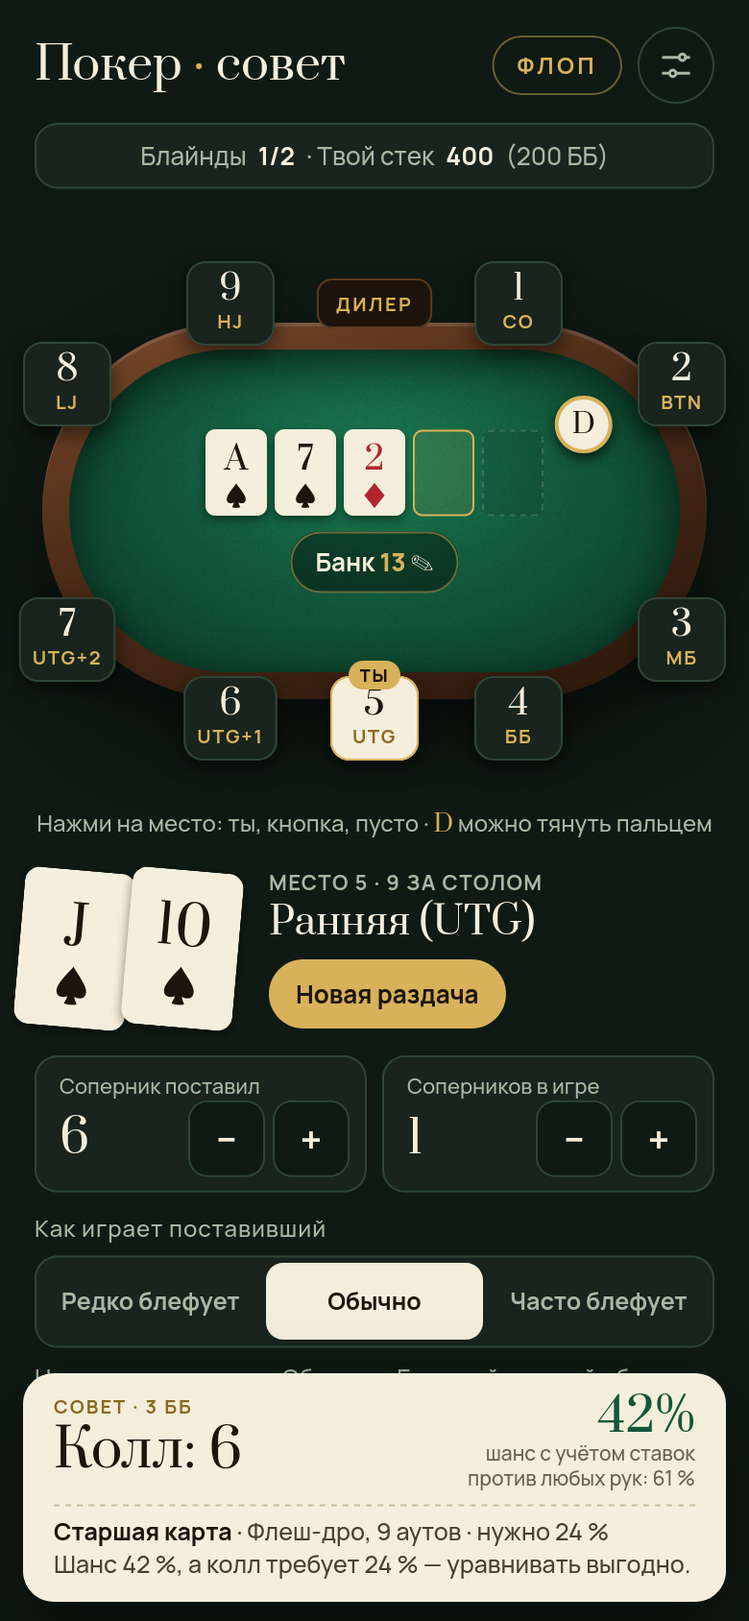
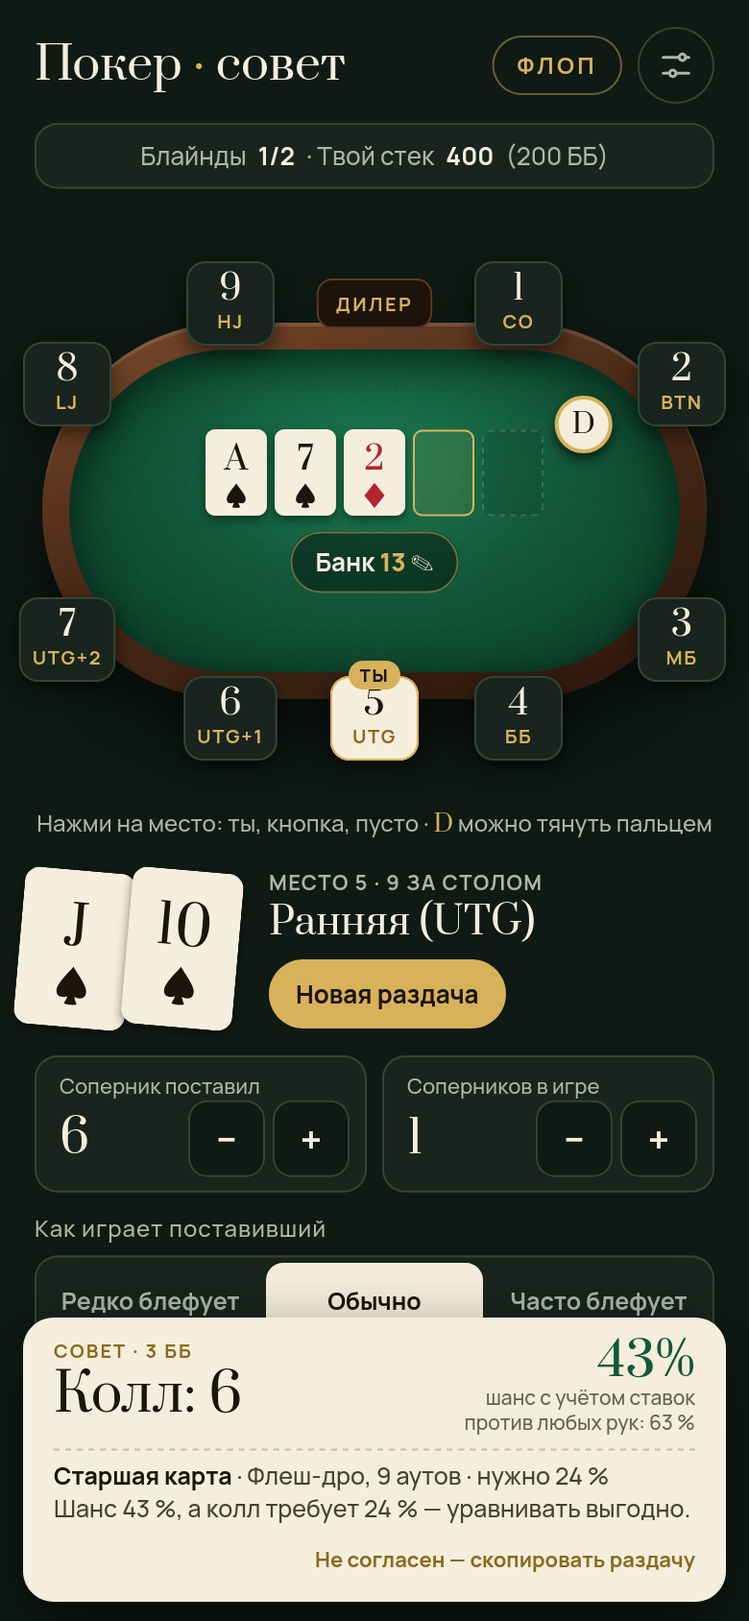
Префлоп по таблицам солвера, защита ББ по цене, «спорно», кнопка «Не согласен» и повтор раздачи; 92 раздачи в проверке

Changed region(s): [[0.0308, 0.8009, 0.9846, 0.9858]]

diff --git a/src/preflop.js b/src/preflop.js
@@ -5,17 +5,21 @@ import { rankOf } from './cards.js';
 import { topClasses, combosIn, PREFLOP_SHARE } from './ranges.js';
 import { calcEquity } from './equity.js';
 
-// Открытие (первым входишь в банк): чем больше игроков после тебя, тем уже диапазон.
+// Открытие (первым входишь в банк) — по опубликованным таблицам солвера для 100 ББ
+// (Preflop Wizard 9-max/6-max, GTO Gecko). Ключ — сколько игроков ходят после тебя:
+// 8 — UTG за полным столом, 5 — UTG за столом на 6, 4 — хайджек, 3 — катофф, 2 — баттон, 1 — МБ.
 const OPEN = {
-  7: '77+, A9s+, KTs+, QTs+, JTs, AJo+, KQo',
-  6: '66+, A8s+, KTs+, QTs+, JTs, T9s, AJo+, KQo',
-  5: '55+, A2s+, KTs+, QTs+, JTs, T9s, 98s, ATo+, KQo',
-  4: '44+, A2s+, K9s+, Q9s+, J9s+, T9s, 98s, 87s, ATo+, KJo+, QJo',
-  3: '22+, A2s+, K7s+, Q8s+, J8s+, T8s+, 97s+, 87s, 76s, 65s, A9o+, KTo+, QTo+, JTo',
-  2: '22+, A2s+, K2s+, Q5s+, J7s+, T7s+, 96s+, 86s+, 75s+, 64s+, 54s, A2o+, K9o+, Q9o+, J9o+, T9o, 98o',
-  1: '22+, A2s+, K5s+, Q7s+, J7s+, T7s+, 97s+, 86s+, 76s, 65s, 54s, A5o+, K9o+, QTo+, JTo',
+  8: '77+, ATs+, KJs+, QJs, JTs, AJo+', // ~9 %
+  7: '66+, A9s+, KTs+, QTs+, JTs, T9s, 98s, AJo+, KQo', // ~12 %
+  6: '55+, A8s+, A5s, KTs+, QTs+, J9s+, T9s, 98s, 87s, ATo+, KQo', // ~15 %
+  5: '22+, A2s+, K9s+, QTs+, JTs, T9s, 98s, 87s, AJo+, KQo', // ~17 %
+  4: '22+, A2s+, K8s+, Q9s+, J9s+, T8s+, 97s+, 87s, 76s, 65s, ATo+, KJo+, QJo', // ~21 %
+  3: '22+, A2s+, K5s+, Q8s+, J8s+, T8s+, 97s+, 86s+, 75s+, 64s+, 54s, A8o+, KTo+, QTo+, JTo', // ~27 %
+  2: '22+, A2s+, K2s+, Q2s+, J4s+, T6s+, 96s+, 85s+, 74s+, 64s+, 53s+, 43s, A2o+, K8o+, Q9o+, J9o+, T9o, 98o', // ~45 %
+  1: '22+, A2s+, K2s+, Q5s+, J7s+, T7s+, 96s+, 86s+, 75s+, 64s+, 54s, A2o+, K9o+, Q9o+, J9o+, T9o', // ~40 %
 };
-const openRange = (behind) => OPEN[Math.min(7, Math.max(1, behind))];
+const openRange = (behind) => OPEN[Math.min(8, Math.max(1, behind))];
+export const OPEN_RANGES = OPEN;
 
 // Против лимперов (кто-то уравнял блайнд без повышения).
 const LIMP_CALL = '22+, A2s+, KTs+, QTs+, JTs, T9s, 98s, 87s, 76s, 65s';
@@ -24,7 +28,6 @@ const LIMP_CALL = '22+, A2s+, KTs+, QTs+, JTs, T9s, 98s, 87s, 76s, 65s';
 const THREEBET = 'QQ+, AKs, AKo';
 const THREEBET_LATE = 'JJ+, AQs+, AKo, A5s';
 const CALL_SMALL = '22-JJ, ATs-AQs, KJs+, QJs, JTs, T9s, 98s, AQo, KQo';
-const CALL_BB_EXTRA = 'A2s+, K9s+, Q9s+, J9s+, T8s+, 97s+, 87s, 76s, 65s, ATo+, KJo+, QJo';
 const CALL_BIG = '77-JJ, AQs, KQs, AQo';
 
 // Спекулятивные руки: дешёвый колл ради большого банка, когда попадёшь (нужны глубокие стеки).
@@ -102,7 +105,11 @@ export function preflopAdvice({ hero, position, action = 'none', limpers = 0, ra
     if (inRange(cls, openRange(position.behind))) {
       return result('raise', 3 * bb, `${cls} достаточно сильна, чтобы входить первым с этой позиции.`);
     }
-    return result('fold', 0, `${cls} слишком слабая для этой позиции: после тебя ещё ${position.behind} игроков.`);
+    // На грани: с соседнего (более позднего) места эту руку уже открывают.
+    const edge = inRange(cls, openRange(position.behind - 1));
+    return { ...result('fold', 0, edge
+      ? `${cls} — на самой границе: с этого места по таблицам пас, а на одно место позже уже открывают.`
+      : `${cls} слишком слабая для этой позиции: после тебя ещё ${position.behind} игроков.`), close: edge };
   }
 
   // Сколько реально доплатить (блайнд уже на столе) и во сколько раз стек больше этой цены.
@@ -113,8 +120,8 @@ export function preflopAdvice({ hero, position, action = 'none', limpers = 0, ra
 
   if (action === 'limp') {
     const raiseSize = (3 + limpers) * bb;
-    // Повышаем, если рука входит в диапазон с запасом (на позицию строже).
-    if (inRange(cls, openRange(position.behind + limpers + 1))) {
+    // Повышаем, если рука входит в диапазон с запасом: каждый лимпер — как два лишних игрока после тебя.
+    if (inRange(cls, openRange(position.behind + 2 * limpers + 1))) {
       return result('raise', raiseSize, `${cls} — сильная рука, повышай и забирай инициативу у лимперов.`);
     }
     if (isBB) return result('check', 0, 'Можно посмотреть флоп бесплатно.');
@@ -162,15 +169,20 @@ export function preflopAdvice({ hero, position, action = 'none', limpers = 0, ra
     if (inRange(cls, SPECULATIVE) && raiseBB <= 4 && (late || isBB) && implied(cost) >= SPECULATIVE_IMPLIED) {
       return result('call', raiseTo, `${cls} — рука «на попадание»: колл дешёвый, стеки глубокие, а флеш или стрит выиграют большой банк.`);
     }
-    // ББ против минимального повышения: цена очень хорошая, защищаем примерно половину рук.
-    if (isBB && raiseBB <= 2.5 && topClasses(0.5).has(cls)) {
-      return result('call', raiseTo, `Повысили минимально: доплатить ${chips(cost)}, а банк уже больше — с ${cls} защищай большой блайнд.`);
+    // Защита ББ по таблицам: чем дешевле повышение, тем больше рук защищаем
+    // (против 2–2,5 ББ около половины, против 3 ББ ~38 %, против 4 ББ ~28 %).
+    const defend = raiseBB <= 2.5 ? 0.5 : raiseBB <= 3.5 ? 0.38 : raiseBB <= 4.5 ? 0.28 : 0.18;
+    if (isBB && topClasses(defend).has(cls)) {
+      return { ...result('call', raiseTo, `Доплатить ${chips(cost)}, часть ставки уже в банке — с ${cls} большой блайнд защищают.`),
+        close: !topClasses(defend - 0.06).has(cls) };
     }
+    const bbEdge = isBB && topClasses(defend + 0.06).has(cls);
     const callRange = raiseBB > 4.5 ? CALL_BIG : CALL_SMALL;
-    if ((inRange(cls, callRange) && !isPair) || (isBB && raiseBB <= 3.5 && inRange(cls, CALL_BB_EXTRA))) {
-      return result('call', raiseTo, isBB
-        ? `${cls}: часть ставки уже в банке, цена колла хорошая.`
-        : `${cls} неплохо играет против повышения, но для 3-бета слабовата.`);
+    if (inRange(cls, callRange) && !isPair) {
+      return result('call', raiseTo, `${cls} неплохо играет против повышения, но для 3-бета слабовата.`);
+    }
+    if (bbEdge) {
+      return { ...result('fold', 0, `${cls} на границе защиты большого блайнда: по таблицам чаще пас, но колл — небольшая ошибка.`), close: true };
     }
     return result('fold', 0, `Против повышения ${cls} слишком слабая.`);
   }

diff --git a/app.js b/app.js
@@ -322,6 +322,43 @@ $('stakes').onclick = openSettings;
 
 // ---------- Совет ----------
 let adviceTimer = 0;
+let lastAdvice = null;
+
+const cardText = (c) => `${rankLabel(rankOf(c))}${SUIT_GLYPH[suitOf(c)]}`;
+
+// «Не согласен»: раздача текстом — владелец вставляет её мне в чат, я разбираю пачкой.
+// Последняя строка #data — для повтора раздачи скриптом scripts/replay.mjs.
+async function copyHand() {
+  const pos = seatPosition(state.occupied, state.button, state.hero);
+  const board = state.board.filter((c) => c !== null);
+  const pre = PREFLOP_CHOICES.find(([k]) => k === state.preflop)[1];
+  const a = lastAdvice;
+  const text = [
+    'Раздача для разбора (Покер · совет)',
+    `Стол: ${activeCount()} игроков, кнопка у места ${state.button}, я на месте ${state.hero} (${pos ? pos.name : '?'})`,
+    `Блайнды ${fmt(state.bb / 2)}/${fmt(state.bb)}, мой стек ${state.stack ? fmt(state.stack) : 'не указан'}`,
+    `Мои карты: ${state.hole.map(cardText).join(' ')}`,
+    board.length ? `На столе: ${board.map(cardText).join(' ')}` : 'На столе: ничего (префлоп)',
+    `До меня префлоп: ${pre}${state.preflop === 'limp' ? ` (${state.limpers})` : ''}${state.raiseTo && /raise|3bet/.test(state.preflop) ? ` до ${fmt(state.raiseTo)}` : ''}`,
+    board.length ? `Банк ${fmt(state.pot)}, соперник поставил ${fmt(state.toCall)}, соперников ${state.opponents}, блефует: ${{ rare: 'редко', normal: 'обычно', often: 'часто' }[state.style]}` : '',
+    a ? `Совет приложения: ${a.title} · шанс ${percentText(a.equity)} % — ${a.advice.reason}` : '',
+    'Я думаю: ',
+    `#data ${JSON.stringify({ occupied: state.occupied, hero: state.hero, button: state.button, bb: state.bb, stack: state.stack,
+      hole: state.hole, board: state.board, preflop: state.preflop, limpers: state.limpers, raiseTo: state.raiseTo,
+      pot: state.pot, toCall: state.toCall, opponents: state.opponents, style: state.style })}`,
+  ].filter(Boolean).join('\n');
+  try {
+    await navigator.clipboard.writeText(text);
+    $('disagree').textContent = 'Скопировано — вставь в чат с Claude и допиши, что думаешь';
+  } catch {
+    // Если телефон не дал скопировать — показываем текст, его можно выделить вручную.
+    openSheet(`<h2>Раздача<button data-act="close">Закрыть</button></h2>
+      <textarea class="copy-box" readonly>${text.replace(/</g, '&lt;')}</textarea>
+      <p class="note">Выдели весь текст и скопируй, потом вставь в чат с Claude.</p>`);
+    sheet.querySelector('[data-act="close"]').onclick = closeSheet;
+    sheet.querySelector('textarea').select();
+  }
+}
 function renderTicket() {
   const ticket = $('ticket');
   const heroPos = seatPosition(state.occupied, state.button, state.hero);
@@ -374,10 +411,13 @@ function renderTicket() {
     ticket.classList.remove('busy');
     ticket.innerHTML = `
       <div class="top-row">
-        <div class="act ${advice.action === 'fold' ? 'fold' : ''}"><small>Совет${blinds ? ` · ${blinds}` : ''}</small>${title}</div>
+        <div class="act ${advice.action === 'fold' ? 'fold' : ''}"><small>${advice.close ? 'Спорно — почти равно' : 'Совет'}${blinds ? ` · ${blinds}` : ''}</small>${title}</div>
         <div class="gauge"><b>${percentText(equity)}%</b><span>${gaugeNote === 'шанс выиграть' ? gaugeNote : gaugeNote.startsWith('против любых') ? `шанс с учётом ставок<br>${gaugeNote}` : `шанс ${gaugeNote}`}</span></div>
       </div>
-      <hr>${lines.map((l) => `<div class="line">${l}</div>`).join('')}`;
+      <hr>${lines.map((l) => `<div class="line">${l}</div>`).join('')}
+      <button class="disagree" id="disagree">Не согласен — скопировать раздачу</button>`;
+    lastAdvice = { advice, equity, title };
+    $('disagree').onclick = copyHand;
   }, 30);
 }
 

diff --git a/src/postflop.js b/src/postflop.js
@@ -136,6 +136,7 @@ export function postflopAdvice({
   const valueNeed = Math.max(0.35, 0.7 - 0.1 * opponents);
   const strongDraw = draws.outs >= 8 && !river;
 
+  let close = false; // спорно: решения почти равны
   const result = (act, amount, reason) => {
     // Больше, чем есть, не поставишь; если ставка — почти весь стек, честнее идти ва-банк.
     if ((act === 'bet' || act === 'raise') && amount >= stack * 0.5) { act = 'allin'; amount = stack; }
@@ -144,11 +145,12 @@ export function postflopAdvice({
       action: act,
       amount: amount ? chips(amount) : 0,
       text: ACTION_TEXT[act] + (amount ? `${act === 'raise' ? ' до' : ''} ${chips(amount)}` : ''),
-      reason, equity, randomEquity, handName, draws, spr,
+      reason, equity, randomEquity, handName, draws, spr, close,
     };
   };
 
   if (!bet) {
+    close = Math.abs(equity - valueNeed) < 0.04;
     if (equity >= valueNeed) {
       if (spr < 1.5 && topPairPlus) {
         return result('allin', stack, `Шанс ${percent} %, а в стеке меньше полутора банков (SPR ${sprText}) — ставь всё сразу.`);
@@ -192,6 +194,7 @@ export function postflopAdvice({
       iterations: Math.round(iterations / 2), random, compareStyles: false });
     return alt.action;
   };
+  close = Math.abs(realized - drawOdds) < 0.04;
   if (realized >= drawOdds) {
     const rare = flip('rare');
     const note = rare === 'fold' ? ' Но если он почти не блефует — пас.' : '';

diff --git a/app.css b/app.css
@@ -162,3 +162,7 @@ h1 em { font-style: normal; color: var(--gold); }
 @media (prefers-reduced-motion: reduce) {
   * { transition: none !important; }
 }
+
+.disagree { display: block; margin: 6px 0 0 auto; font: 700 11px Manrope; color: var(--gold-ink); padding: 4px 0; }
+.copy-box { width: 100%; height: 220px; border-radius: 12px; background: #0f1a14; color: var(--ivory);
+            border: 1px solid var(--panel-line); padding: 10px; font: 500 12px/1.4 Manrope; }

diff --git a/sw.js b/sw.js
@@ -1,6 +1,6 @@
 // Офлайн-режим: сначала пробуем интернет (всегда свежая версия),
 // без связи — берём сохранённую копию из телефона.
-const CACHE = 'poker-v2';
+const CACHE = 'poker-v3';
 const FILES = [
   './', 'index.html', 'app.css', 'app.js', 'manifest.webmanifest',
   'src/cards.js', 'src/evaluator.js', 'src/equity.js', 'src/hands.js', 'src/handRanks.js',

diff --git a/docs/proverka-sovetov.md b/docs/proverka-sovetov.md
@@ -6,85 +6,102 @@
 
 | # | Раздача | До тебя | Совет | Шанс | Ждём | |
 |---|---|---|---|---|---|---|
-| 1 | AA из ранней | все сбросили | **Рейз до 6** | 85 % против одного соперника | рейз | ✅ |
-| 2 | KJ разных мастей из ранней | все сбросили | **Пас** | 54 % против одного соперника | пас | ✅ |
-| 3 | 77 из ранней | все сбросили | **Рейз до 6** | 57 % против одного соперника | рейз | ✅ |
-| 4 | A5 одной масти с катоффа | все сбросили | **Рейз до 6** | 54 % против одного соперника | рейз | ✅ |
-| 5 | K8 одной масти с баттона | все сбросили | **Рейз до 6** | 51 % против одного соперника | рейз | ✅ |
-| 6 | 9-4 разных с баттона | все сбросили | **Пас** | 31 % против одного соперника | пас | ✅ |
-| 7 | 72 на ББ, все сбросили | все сбросили | **Чек** | 30 % против одного соперника | чек | ✅ |
-| 8 | AK разных против 2 лимперов | лимп | **Рейз до 10** | 47 % против 2 соперников | рейз | ✅ |
-| 9 | 55 на баттоне против лимпера | лимп | **Рейз до 10** | 34 % против 2 соперников | рейз или колл | ✅ |
-| 10 | QQ против рейза | рейз до 6 | **Рейз до 18** | 70 % против руки повысившего | рейз | ✅ |
-| 11 | AJ разных против рейза | рейз до 6 | **Пас** | 55 % против руки повысившего | пас или колл | ✅ |
-| 12 | K9 одной масти на ББ против рейза | рейз до 6 | **Колл до 6** | 41 % против руки повысившего | колл | ✅ |
-| 13 | 66 на катоффе против рейза | рейз до 6 | **Колл до 6** | 49 % против руки повысившего | колл | ✅ |
-| 14 | 72 разных против рейза | рейз до 6 | **Пас** | 28 % против руки повысившего | пас | ✅ |
-| 15 | JJ против 3-бета | 3-бет до 18 | **Колл до 18** | 56 % против руки повысившего | колл | ✅ |
-| 16 | AK одной масти против 3-бета | 3-бет до 18 | **Рейз до 41.4** | 54 % против руки повысившего | рейз или ва-банк | ✅ |
-| 17 | K9 разных, стек 10 ББ, баттон | все сбросили | **Ва-банк до 20** | 50 % против одного соперника | ва-банк | ✅ |
-| 18 | 55, стек 8 ББ, ранняя | все сбросили | **Ва-банк до 16** | 53 % против одного соперника | ва-банк | ✅ |
-| 19 | J3 разных, стек 8 ББ, ранняя | все сбросили | **Пас** | 35 % против одного соперника | пас | ✅ |
-| 20 | 22, стек 14 ББ, ранняя | все сбросили | **Пас** | 48 % против одного соперника | пас | ✅ |
-| 21 | A2 разных, стек 6 ББ, малый блайнд | все сбросили | **Ва-банк до 12** | 49 % против одного соперника | ва-банк | ✅ |
-| 22 | AQ одной масти, стек 12 ББ, против рейза | рейз до 6 | **Ва-банк до 24** | 60 % против руки повысившего | ва-банк | ✅ |
-| 23 | 55 против рейза на баттоне, 100 ББ (ловим сет) | рейз до 6 | **Колл до 6** | 46 % против руки повысившего | колл | ✅ |
-| 24 | 55 против рейза на баттоне, 40 ББ | рейз до 6 | **Пас** | 46 % против руки повысившего | пас | ✅ |
-| 25 | 55 на ББ против рейза, 100 ББ | рейз до 6 | **Колл до 6** | 47 % против руки повысившего | колл | ✅ |
-| 26 | 33 против рейза в 5 ББ, 100 ББ | рейз до 10 | **Колл до 10** | 44 % против руки повысившего | колл | ✅ |
-| 27 | 33 против рейза в 5 ББ, 60 ББ | рейз до 10 | **Пас** | 45 % против руки повысившего | пас | ✅ |
-| 28 | 76 одной масти на баттоне против рейза, 100 ББ | рейз до 6 | **Колл до 6** | 37 % против руки повысившего | колл | ✅ |
-| 29 | 76 одной масти на баттоне против рейза, 40 ББ | рейз до 6 | **Пас** | 37 % против руки повысившего | пас | ✅ |
-| 30 | 76 одной масти из ранней против рейза, 100 ББ | рейз до 6 | **Пас** | 37 % против руки повысившего | пас | ✅ |
-| 31 | A4 одной масти на ББ против рейза, 150 ББ | рейз до 6 | **Колл до 6** | 45 % против руки повысившего | колл | ✅ |
-| 32 | A2 одной масти из ранней против рейза в 2 ББ | рейз до 4 | **Колл до 4** | 43 % против руки повысившего | колл | ✅ |
-| 33 | A2 одной масти на МБ против рейза в 2 ББ | рейз до 4 | **Колл до 4** | 44 % против руки повысившего | колл | ✅ |
-| 34 | A2 одной масти на баттоне против рейза в 2 ББ, стек 40 ББ | рейз до 4 | **Колл до 4** | 43 % против руки повысившего | колл | ✅ |
-| 35 | A2 одной масти из ранней против рейза в 4 ББ | рейз до 8 | **Пас** | 43 % против руки повысившего | пас | ✅ |
-| 36 | A2 разных мастей против рейза в 2 ББ на баттоне | рейз до 4 | **Пас** | 40 % против руки повысившего | пас | ✅ |
-| 37 | K7 разных на ББ против минимального рейза | рейз до 4 | **Колл до 4** | 35 % против руки повысившего | колл | ✅ |
-| 38 | 9-2 разных на ББ против минимального рейза | рейз до 4 | **Пас** | 29 % против руки повысившего | пас | ✅ |
-| 39 | J8 разных на МБ, перед тобой 2 лимпа | лимп | **Колл до 2** | 26 % против 2 соперников | колл | ✅ |
-| 40 | 7-2 разных на МБ, перед тобой 2 лимпа | лимп | **Пас** | 19 % против 2 соперников | пас | ✅ |
-| 41 | 88 против 3-бета, 300 ББ (на сет) | 3-бет до 18 | **Колл до 18** | 42 % против руки повысившего | колл | ✅ |
-| 42 | 88 против 3-бета, 100 ББ | 3-бет до 18 | **Пас** | 41 % против руки повысившего | пас | ✅ |
-| 43 | Твой пример: стек 200 ББ, ББ, доплатить ещё блайнд, T7 одной масти | рейз до 4 | **Колл до 4** | 35 % против руки повысившего | колл | ✅ |
-| 44 | Твой пример: стек 200 ББ, ББ, доплатить ещё блайнд, 7-2 разных | рейз до 4 | **Пас** | 28 % против руки повысившего | пас | ✅ |
+| 1 | Таблица: 77 из UTG — открывать | все сбросили | **Рейз до 6** | 58 % против одного соперника | рейз | ✅ |
+| 2 | Таблица: 66 из UTG — пас | все сбросили | **Пас** | 55 % против одного соперника | пас | ✅ |
+| 3 | Таблица: KQ разных из UTG — пас | все сбросили | **Пас** | 56 % против одного соперника | пас | ✅ |
+| 4 | Таблица: KQ разных из UTG+1 — открывать | все сбросили | **Рейз до 6** | 56 % против одного соперника | рейз | ✅ |
+| 5 | Таблица: A9 одной масти из UTG — пас | все сбросили | **Пас** | 59 % против одного соперника | пас | ✅ |
+| 6 | Таблица: 87 одной масти из UTG+2 — открывать | все сбросили | **Рейз до 6** | 39 % против одного соперника | рейз | ✅ |
+| 7 | Таблица: 76 одной масти из хайджека — открывать | все сбросили | **Рейз до 6** | 39 % против одного соперника | рейз | ✅ |
+| 8 | Таблица: A8 разных с катоффа — открывать | все сбросили | **Рейз до 6** | 55 % против одного соперника | рейз | ✅ |
+| 9 | Таблица: A7 разных с катоффа — пас | все сбросили | **Пас** | 53 % против одного соперника | пас | ✅ |
+| 10 | Таблица: Q2 одной масти с баттона — открывать | все сбросили | **Рейз до 6** | 40 % против одного соперника | рейз | ✅ |
+| 11 | Таблица: K7 разных с баттона — пас | все сбросили | **Пас** | 46 % против одного соперника | пас | ✅ |
+| 12 | Таблица: 43 одной масти с баттона — открывать | все сбросили | **Рейз до 6** | 36 % против одного соперника | рейз | ✅ |
+| 13 | Таблица: 42 одной масти с баттона — пас | все сбросили | **Пас** | 35 % против одного соперника | пас | ✅ |
+| 14 | Таблица: K9 разных с МБ — открывать | все сбросили | **Рейз до 6** | 50 % против одного соперника | рейз | ✅ |
+| 15 | Таблица: K8 разных с МБ — пас | все сбросили | **Пас** | 47 % против одного соперника | пас | ✅ |
+| 16 | Защита ББ: Q6 разных против 2 ББ | рейз до 4 | **Колл до 4** | 31 % против руки повысившего | колл или пас | ✅ |
+| 17 | Защита ББ: J4 разных против 4 ББ — пас | рейз до 8 | **Пас** | 30 % против руки повысившего | пас | ✅ |
+| 18 | AA из ранней | все сбросили | **Рейз до 6** | 85 % против одного соперника | рейз | ✅ |
+| 19 | KJ разных мастей из ранней | все сбросили | **Пас** | 55 % против одного соперника | пас | ✅ |
+| 20 | 77 из ранней | все сбросили | **Рейз до 6** | 58 % против одного соперника | рейз | ✅ |
+| 21 | A5 одной масти с катоффа | все сбросили | **Рейз до 6** | 53 % против одного соперника | рейз | ✅ |
+| 22 | K8 одной масти с баттона | все сбросили | **Рейз до 6** | 50 % против одного соперника | рейз | ✅ |
+| 23 | 9-4 разных с баттона | все сбросили | **Пас** | 31 % против одного соперника | пас | ✅ |
+| 24 | 72 на ББ, все сбросили | все сбросили | **Чек** | 30 % против одного соперника | чек | ✅ |
+| 25 | AK разных против 2 лимперов | лимп | **Рейз до 10** | 46 % против 2 соперников | рейз | ✅ |
+| 26 | 55 на баттоне против лимпера | лимп | **Колл до 2** | 35 % против 2 соперников | рейз или колл | ✅ |
+| 27 | QQ против рейза | рейз до 6 | **Рейз до 18** | 70 % против руки повысившего | рейз | ✅ |
+| 28 | AJ разных против рейза | рейз до 6 | **Пас** | 54 % против руки повысившего | пас или колл | ✅ |
+| 29 | K9 одной масти на ББ против рейза | рейз до 6 | **Колл до 6** | 41 % против руки повысившего | колл | ✅ |
+| 30 | 66 на катоффе против рейза | рейз до 6 | **Колл до 6** | 48 % против руки повысившего | колл | ✅ |
+| 31 | 72 разных против рейза | рейз до 6 | **Пас** | 28 % против руки повысившего | пас | ✅ |
+| 32 | JJ против 3-бета | 3-бет до 18 | **Колл до 18** | 56 % против руки повысившего | колл | ✅ |
+| 33 | AK одной масти против 3-бета | 3-бет до 18 | **Рейз до 41.4** | 53 % против руки повысившего | рейз или ва-банк | ✅ |
+| 34 | K9 разных, стек 10 ББ, баттон | все сбросили | **Ва-банк до 20** | 50 % против одного соперника | ва-банк | ✅ |
+| 35 | 55, стек 8 ББ, ранняя | все сбросили | **Ва-банк до 16** | 53 % против одного соперника | ва-банк | ✅ |
+| 36 | J3 разных, стек 8 ББ, ранняя | все сбросили | **Пас** | 34 % против одного соперника | пас | ✅ |
+| 37 | 22, стек 14 ББ, ранняя | все сбросили | **Пас** | 48 % против одного соперника | пас | ✅ |
+| 38 | A2 разных, стек 6 ББ, малый блайнд | все сбросили | **Ва-банк до 12** | 49 % против одного соперника | ва-банк | ✅ |
+| 39 | AQ одной масти, стек 12 ББ, против рейза | рейз до 6 | **Ва-банк до 24** | 61 % против руки повысившего | ва-банк | ✅ |
+| 40 | 55 против рейза на баттоне, 100 ББ (ловим сет) | рейз до 6 | **Колл до 6** | 46 % против руки повысившего | колл | ✅ |
+| 41 | 55 против рейза на баттоне, 40 ББ | рейз до 6 | **Пас** | 46 % против руки повысившего | пас | ✅ |
+| 42 | 55 на ББ против рейза, 100 ББ | рейз до 6 | **Колл до 6** | 46 % против руки повысившего | колл | ✅ |
+| 43 | 33 против рейза в 5 ББ, 100 ББ | рейз до 10 | **Колл до 10** | 44 % против руки повысившего | колл | ✅ |
+| 44 | 33 против рейза в 5 ББ, 60 ББ | рейз до 10 | **Пас** | 44 % против руки повысившего | пас | ✅ |
+| 45 | 76 одной масти на баттоне против рейза, 100 ББ | рейз до 6 | **Колл до 6** | 37 % против руки повысившего | колл | ✅ |
+| 46 | 76 одной масти на баттоне против рейза, 40 ББ | рейз до 6 | **Пас** | 37 % против руки повысившего | пас | ✅ |
+| 47 | 76 одной масти из ранней против рейза, 100 ББ | рейз до 6 | **Пас** | 36 % против руки повысившего | пас | ✅ |
+| 48 | A4 одной масти на ББ против рейза, 150 ББ | рейз до 6 | **Колл до 6** | 44 % против руки повысившего | колл | ✅ |
+| 49 | A2 одной масти из ранней против рейза в 2 ББ | рейз до 4 | **Колл до 4** | 43 % против руки повысившего | колл | ✅ |
+| 50 | A2 одной масти на МБ против рейза в 2 ББ | рейз до 4 | **Колл до 4** | 43 % против руки повысившего | колл | ✅ |
+| 51 | A2 одной масти на баттоне против рейза в 2 ББ, стек 40 ББ | рейз до 4 | **Колл до 4** | 43 % против руки повысившего | колл | ✅ |
+| 52 | A2 одной масти из ранней против рейза в 4 ББ | рейз до 8 | **Пас** | 44 % против руки повысившего | пас | ✅ |
+| 53 | A2 разных мастей против рейза в 2 ББ на баттоне | рейз до 4 | **Пас** | 40 % против руки повысившего | пас | ✅ |
+| 54 | K7 разных на ББ против минимального рейза | рейз до 4 | **Колл до 4** | 35 % против руки повысившего | колл | ✅ |
+| 55 | 9-2 разных на ББ против минимального рейза | рейз до 4 | **Пас** | 28 % против руки повысившего | пас | ✅ |
+| 56 | J8 разных на МБ, перед тобой 2 лимпа | лимп | **Колл до 2** | 26 % против 2 соперников | колл | ✅ |
+| 57 | 7-2 разных на МБ, перед тобой 2 лимпа | лимп | **Пас** | 19 % против 2 соперников | пас | ✅ |
+| 58 | 88 против 3-бета, 300 ББ (на сет) | 3-бет до 18 | **Колл до 18** | 43 % против руки повысившего | колл | ✅ |
+| 59 | 88 против 3-бета, 100 ББ | 3-бет до 18 | **Пас** | 41 % против руки повысившего | пас | ✅ |
+| 60 | Твой пример: стек 200 ББ, ББ, доплатить ещё блайнд, T7 одной масти | рейз до 4 | **Колл до 4** | 35 % против руки повысившего | колл | ✅ |
+| 61 | Твой пример: стек 200 ББ, ББ, доплатить ещё блайнд, 7-2 разных | рейз до 4 | **Пас** | 28 % против руки повысившего | пас | ✅ |
 
 ## После флопа (банк — в центре, ставка — отдельно)
 
 | # | Раздача | Карты · стол | Банк / ставка | Совет | Шанс (против любых) | Ждём | |
 |---|---|---|---|---|---|---|---|
-| 45 | Старшая пара с лучшим кикером, тебе чек | As Kd · Ah 7c 2d | 13 / — | **Ставка 8.6** | 89 % (89 %) | ставка | ✅ |
-| 46 | Старшая пара, ставка в полбанка | As Kd · Ah 7c 2d | 13 / 6 | **Колл 6** | 83 % (89 %) | колл или рейз | ✅ |
-| 47 | Ничего не попало, тебе чек | 7s 6s · Ah Kc 2d | 13 / — | **Чек** | 6 % (21 %) | чек | ✅ |
-| 48 | Ничего не попало, ставка | 7s 6s · Ah Kc 2d | 13 / 9 | **Пас** | 10 % (21 %) | пас | ✅ |
-| 49 | Сет семёрок, ставка | 7s 7d · Kh 7c 2h | 13 / 9 | **Рейз до 27** | 90 % (95 %) | рейз | ✅ |
-| 50 | Флеш-дро, ставка в банк | Js Ts · As 7s 2d | 13 / 13 | **Колл 13** | 41 % (61 %) | колл | ✅ |
-| 51 | Флеш-дро, ставка в три банка | Js Ts · As 7s 2d | 13 / 39 | **Пас** | 40 % (61 %) | пас | ✅ |
-| 52 | Двустороннее стрит-дро, ставка в полбанка | 9s 8d · 7c 6h Kd | 13 / 6 | **Колл 6** | 37 % (51 %) | колл | ✅ |
-| 53 | Гатшот, ставка в банк | 9s 8d · 6c 5h Kd | 13 / 13 | **Пас** | 21 % (40 %) | пас | ✅ |
-| 54 | Туз со слабым кикером, ставка в банк | Ad 3c · As Jh 8d | 13 / 13 | **Колл 13** | 54 % (83 %) | колл или пас | ✅ |
-| 55 | Оверпара QQ, тебе чек | Qs Qd · 8h 5c 2d | 13 / — | **Ставка 8.6** | 78 % (81 %) | ставка | ✅ |
-| 56 | QQ на столе A-K, ставка | Qs Qd · Ah Kc 4d | 13 / 9 | **Колл 9** | 39 % (72 %) | пас или колл | ✅ |
-| 57 | Ривер: натсовый флеш, ставка | Ah 5h · Kh 9h 2c 7h Js | 40 / 20 | **Рейз до 60** | 100 % (100 %) | рейз или ва-банк | ✅ |
-| 58 | Ривер: младшая пара, огромная ставка | 3s 3d · Kh 9c 7d 5s 2h | 40 / 80 | **Пас** | 15 % (47 %) | пас | ✅ |
-| 59 | Ривер: старшая пара, маленькая ставка | Kd Qc · Kh 9c 7d 5s 2h | 40 / 10 | **Колл 10** | 74 % (87 %) | колл или рейз | ✅ |
-| 60 | Ривер: AA на K-K-8-4-2, ставка в 4 банка (твоя) | Ac Ah · 4d Kc Kd 8s 2c | 250 / 1000 | **Пас** | 12 % (81 %) | пас | ✅ |
-| 61 | Ривер: AA на K-K-8-4-2, ставка в банк | Ac Ah · 4d Kc Kd 8s 2c | 1000 / 1000 | **Колл 1000** | 56 % (90 %) | колл | ✅ |
-| 62 | Ривер: AA на K-K-8-4-2, ставка в полбанка | Ac Ah · 4d Kc Kd 8s 2c | 1000 / 500 | **Колл 500** | 68 % (91 %) | колл | ✅ |
-| 63 | Ривер: QQ на A-8-8-4-2, один (твоя) — зависит от блефа | Qh Qd · 4d Ad 8c 8s 2c | 750 / 500 | **Пас** (если он часто блефует — колл) | 20 % (76 %) | пас или колл | ✅ |
-| 64 | Тёрн: две пары, ставка, трое в игре | Ks 9s · Kh 9c 4d 2s | 30 / 20 | **Рейз до 60** | 85 % (89 %) | рейз или колл | ✅ |
-| 65 | Старшая пара, хороший кикер, трое, чек | As Qd · Qh 8c 3d | 12 / — | **Ставка 7.9** | 62 % (65 %) | ставка | ✅ |
-| 66 | Короткий стек: старшая пара, ставка | As Kd · Kh 8c 3d | 40 / 20 | **Ва-банк 30** | 83 % (90 %) | ва-банк | ✅ |
-| 67 | Готовый стрит, тебе чек | Jd Ts · 9h 8c 7d | 13 / — | **Ставка 8.6** | 93 % (95 %) | ставка | ✅ |
-| 68 | Оверпара, стек полтора банка, ставка | Qs Qd · 8h 5c 2d | 60 / 30 | **Ва-банк 90** | 76 % (81 %) | ва-банк | ✅ |
-| 69 | Старшая пара, стек 10 банков, ставка в банк | As Kd · Kh 8c 3d | 20 / 20 | **Колл 20** | 79 % (89 %) | колл | ✅ |
-| 70 | Сет, глубокие стеки, ставка | 8s 8d · Kh 8c 3d | 20 / 15 | **Рейз до 45** | 93 % (97 %) | рейз | ✅ |
-| 71 | Две пары, глубокие стеки, ставка | Ks 9s · Kh 9c 4d 2s | 40 / 25 | **Рейз до 75** | 92 % (95 %) | рейз | ✅ |
-| 72 | Флеш-дро на тёрне, полбанка, глубокие стеки | Js Ts · As 7s 2d 4c | 40 / 20 | **Колл 20** | 26 % (42 %) | колл | ✅ |
-| 73 | Флеш-дро на тёрне, ставка в банк, стек маленький | Js Ts · As 7s 2d 4c | 40 / 40 | **Пас** | 26 % (43 %) | пас | ✅ |
-| 74 | Флеш-дро на тёрне, ставка в банк, глубокие стеки | Js Ts · As 7s 2d 4c | 40 / 40 | **Пас** (если он часто блефует — колл) | 25 % (43 %) | колл или пас | ✅ |
-| 75 | Старшая пара, тебе чек, стек меньше банка | Kd 4d · Kh 9c 3s | 60 / — | **Ва-банк 50** | 71 % (82 %) | ва-банк | ✅ |
+| 62 | Старшая пара с лучшим кикером, тебе чек | As Kd · Ah 7c 2d | 13 / — | **Ставка 8.6** | 88 % (89 %) | ставка | ✅ |
+| 63 | Старшая пара, ставка в полбанка | As Kd · Ah 7c 2d | 13 / 6 | **Колл 6** | 83 % (89 %) | колл или рейз | ✅ |
+| 64 | Ничего не попало, тебе чек | 7s 6s · Ah Kc 2d | 13 / — | **Чек** | 6 % (21 %) | чек | ✅ |
+| 65 | Ничего не попало, ставка | 7s 6s · Ah Kc 2d | 13 / 9 | **Пас** | 10 % (22 %) | пас | ✅ |
+| 66 | Сет семёрок, ставка | 7s 7d · Kh 7c 2h | 13 / 9 | **Рейз до 27** | 90 % (95 %) | рейз | ✅ |
+| 67 | Флеш-дро, ставка в банк | Js Ts · As 7s 2d | 13 / 13 | **Колл 13** | 41 % (62 %) | колл | ✅ |
+| 68 | Флеш-дро, ставка в три банка | Js Ts · As 7s 2d | 13 / 39 | **Пас** | 40 % (61 %) | пас | ✅ |
+| 69 | Двустороннее стрит-дро, ставка в полбанка | 9s 8d · 7c 6h Kd | 13 / 6 | **Колл 6** | 38 % (52 %) | колл | ✅ |
+| 70 | Гатшот, ставка в банк | 9s 8d · 6c 5h Kd | 13 / 13 | **Пас** | 21 % (39 %) | пас | ✅ |
+| 71 | Туз со слабым кикером, ставка в банк | Ad 3c · As Jh 8d | 13 / 13 | **Колл 13** | 54 % (83 %) | колл или пас | ✅ |
+| 72 | Оверпара QQ, тебе чек | Qs Qd · 8h 5c 2d | 13 / — | **Ставка 8.6** | 78 % (80 %) | ставка | ✅ |
+| 73 | QQ на столе A-K, ставка | Qs Qd · Ah Kc 4d | 13 / 9 | **Колл 9** | 39 % (72 %) | пас или колл | ✅ |
+| 74 | Ривер: натсовый флеш, ставка | Ah 5h · Kh 9h 2c 7h Js | 40 / 20 | **Рейз до 60** | 100 % (100 %) | рейз или ва-банк | ✅ |
+| 75 | Ривер: младшая пара, огромная ставка | 3s 3d · Kh 9c 7d 5s 2h | 40 / 80 | **Пас** | 15 % (47 %) | пас | ✅ |
+| 76 | Ривер: старшая пара, маленькая ставка | Kd Qc · Kh 9c 7d 5s 2h | 40 / 10 | **Колл 10** | 75 % (87 %) | колл или рейз | ✅ |
+| 77 | Ривер: AA на K-K-8-4-2, ставка в 4 банка (твоя) | Ac Ah · 4d Kc Kd 8s 2c | 250 / 1000 | **Пас** | 12 % (81 %) | пас | ✅ |
+| 78 | Ривер: AA на K-K-8-4-2, ставка в банк | Ac Ah · 4d Kc Kd 8s 2c | 1000 / 1000 | **Колл 1000** | 55 % (90 %) | колл | ✅ |
+| 79 | Ривер: AA на K-K-8-4-2, ставка в полбанка | Ac Ah · 4d Kc Kd 8s 2c | 1000 / 500 | **Колл 500** | 68 % (90 %) | колл | ✅ |
+| 80 | Ривер: QQ на A-8-8-4-2, один (твоя) — зависит от блефа | Qh Qd · 4d Ad 8c 8s 2c | 750 / 500 | **Пас** (если он часто блефует — колл) | 20 % (76 %) | пас или колл | ✅ |
+| 81 | Тёрн: две пары, ставка, трое в игре | Ks 9s · Kh 9c 4d 2s | 30 / 20 | **Рейз до 60** | 85 % (88 %) | рейз или колл | ✅ |
+| 82 | Старшая пара, хороший кикер, трое, чек | As Qd · Qh 8c 3d | 12 / — | **Ставка 7.9** | 62 % (66 %) | ставка | ✅ |
+| 83 | Короткий стек: старшая пара, ставка | As Kd · Kh 8c 3d | 40 / 20 | **Ва-банк 30** | 83 % (89 %) | ва-банк | ✅ |
+| 84 | Готовый стрит, тебе чек | Jd Ts · 9h 8c 7d | 13 / — | **Ставка 8.6** | 93 % (95 %) | ставка | ✅ |
+| 85 | Оверпара, стек полтора банка, ставка | Qs Qd · 8h 5c 2d | 60 / 30 | **Ва-банк 90** | 76 % (80 %) | ва-банк | ✅ |
+| 86 | Старшая пара, стек 10 банков, ставка в банк | As Kd · Kh 8c 3d | 20 / 20 | **Колл 20** | 79 % (90 %) | колл | ✅ |
+| 87 | Сет, глубокие стеки, ставка | 8s 8d · Kh 8c 3d | 20 / 15 | **Рейз до 45** | 94 % (97 %) | рейз | ✅ |
+| 88 | Две пары, глубокие стеки, ставка | Ks 9s · Kh 9c 4d 2s | 40 / 25 | **Рейз до 75** | 92 % (96 %) | рейз | ✅ |
+| 89 | Флеш-дро на тёрне, полбанка, глубокие стеки | Js Ts · As 7s 2d 4c | 40 / 20 | **Колл 20** | 26 % (43 %) | колл | ✅ |
+| 90 | Флеш-дро на тёрне, ставка в банк, стек маленький | Js Ts · As 7s 2d 4c | 40 / 40 | **Пас** | 26 % (44 %) | пас | ✅ |
+| 91 | Флеш-дро на тёрне, ставка в банк, глубокие стеки | Js Ts · As 7s 2d 4c | 40 / 40 | **Пас** (если он часто блефует — колл) | 25 % (44 %) | колл или пас | ✅ |
+| 92 | Старшая пара, тебе чек, стек меньше банка | Kd 4d · Kh 9c 3s | 60 / — | **Ва-банк 50** | 70 % (83 %) | ва-банк | ✅ |
 
-Не совпало с ожиданием: 0 из 75
+Не совпало с ожиданием: 0 из 92

diff --git a/CLAUDE.md b/CLAUDE.md
@@ -88,7 +88,7 @@
 - Префлоп-шанс — против тех, кто реально играет (одного/лимперов/повысившего), не против всего стола.
 - Стек: до 15 ББ — «ва-банк или пас» (рейтинг один на один HAND_RANKS_HU, пары всегда в ва-банк до 10 ББ);
   ставка ≥ половины стека → ва-банк.
-- Прогон 70 типичных раздач с ожидаемыми решениями: `node scripts/review.mjs` (входит в `npm test`),
+- Прогон 92 типичных раздач с ожидаемыми решениями: `node scripts/review.mjs` (входит в `npm test`),
   результат для владельца — docs/proverka-sovetov.md. Новая жалоба владельца → добавить раздачу сюда.
 - Экран: банк вводится нажатием на «Банк» на столе (банк = деньги в центре, без ставки улицы),
   «Соперник поставил» — отдельно; строка «Блайнды · Твой стек» вверху; без зума от двойного касания.
@@ -99,3 +99,11 @@
   защищает ~50 % рук; МБ доплачивает полблайнда в лимп-банке с ~55 % рук. После флопа: SPR < 3 со
   старшей парой+ — ва-банк; SPR > 6 одной парой не повышаем; дро при SPR ≥ 4 и ставке ≤ банка
   учитывает будущий выигрыш (неявные шансы). Стек соперника владелец вводить НЕ хочет — считаем по своему.
+
+- 2026-10-05, чтобы ошибок было меньше: таблицы открытия — по опубликованным таблицам солвера (Preflop Wizard
+  9-max/6-max, GTO Gecko), доли 9/12/14/16/21/28/45/40 % — в review.mjs есть граничные руки из этих таблиц.
+  Защита ББ по цене: 50 % (≤2,5 ББ), 38 % (≤3,5), 28 % (≤4,5), 18 %. Против лимперов повышаем строже
+  (лимпер = два игрока после тебя). «Спорно» (поле close): разница шанса и цены < 4 %, рука на границе таблицы.
+- Кнопка «Не согласен» копирует раздачу текстом с последней строкой `#data {...}`. Владелец присылает
+  пачку таких раздач → `node scripts/replay.mjs '#data {...}'` повторяет любую; каждую спорную — в review.mjs.
+- Позже (по желанию владельца): сверка постфлопа с солвером TexasSolver на сервере (сначала прочитать код).
